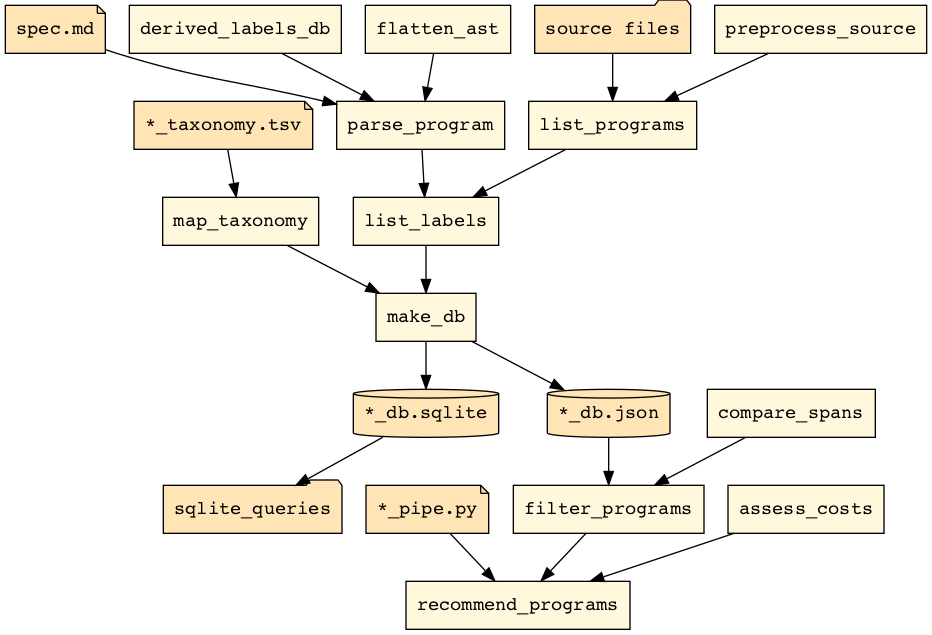
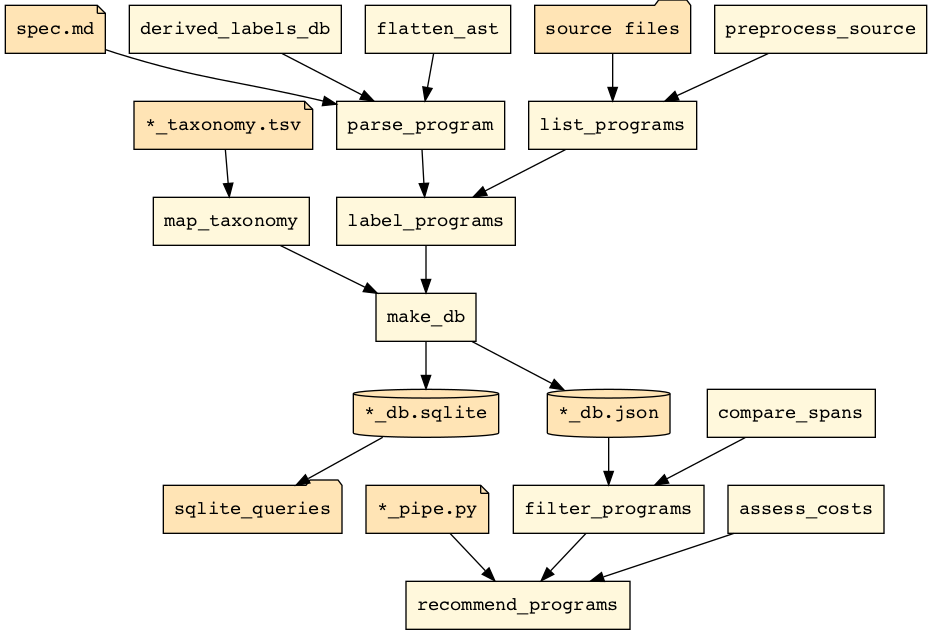
rename list_labels into label_programs

Changed region(s): [[0.1556, 0.2992, 0.5601, 0.4189], [0.3423, 0.4189, 0.4045, 0.4787], [0.2178, 0.2394, 0.28, 0.2992]]

diff --git a/paroxython/list_programs.py b/paroxython/list_programs.py
@@ -44,7 +44,7 @@ def get_program(source: Source, relative_path: Path = None) -> Program:
     - the program `Path`, empty or relative to the directory passed to list_programs()
     - its centrifugated `Source`,
     - the hints scheduled for addition or deletion.
-    - its `labels`, currently empty, to be later populated by list_labels.py.
+    - its `labels`, currently empty, to be later populated by label_programs.py.
     """
     source = centrifugate_hints(source)
     (addition, deletion) = collect_hints(source)

diff --git a/paroxython/map_taxonomy.py b/paroxython/map_taxonomy.py
@@ -96,7 +96,7 @@ class Taxonomy:
 
 
 if __name__ == "__main__":
-    list_labelled_programs = __import__("list_labels").list_labelled_programs
+    list_labelled_programs = __import__("label_programs").list_labelled_programs
     chain = __import__("itertools").chain
     taxonomy = Taxonomy()
     programs = list_labelled_programs(Path("../Python/project_euler"))

diff --git a/tests/test_map_taxonomy.py b/tests/test_map_taxonomy.py
@@ -6,7 +6,7 @@ import pytest
 
 import context
 from make_snapshot import make_snapshot
-from paroxython.list_labels import ProgramLabeller
+from paroxython.label_programs import ProgramLabeller
 from paroxython.map_taxonomy import Taxonomy
 from paroxython.span import Span
 from paroxython.user_types import Label, Program

diff --git a/paroxython/make_db.py b/paroxython/make_db.py
@@ -9,7 +9,7 @@ from typing import List, Optional, Tuple, Union, overload, Dict
 import regex  # type: ignore
 
 from goodies import add_line_numbers
-from list_labels import ProgramLabeller
+from label_programs import ProgramLabeller
 from map_taxonomy import Taxonomy
 from user_types import (
     LabelInfos,

diff --git a/tests/test_label_programs.py b/tests/test_label_programs.py
@@ -6,7 +6,7 @@ import regex
 
 import context
 from make_snapshot import make_snapshot
-from paroxython.list_labels import ProgramLabeller
+from paroxython.label_programs import ProgramLabeller
 from paroxython.user_types import Span, ProgramName
 
 

diff --git a/tests/test_update_snapshots.py b/tests/test_update_snapshots.py
@@ -4,7 +4,7 @@ import pytest
 
 import context
 from make_snapshot import make_snapshot
-from paroxython.list_labels import ProgramLabeller
+from paroxython.label_programs import ProgramLabeller
 
 
 def test_update_snapshots(capsys):
